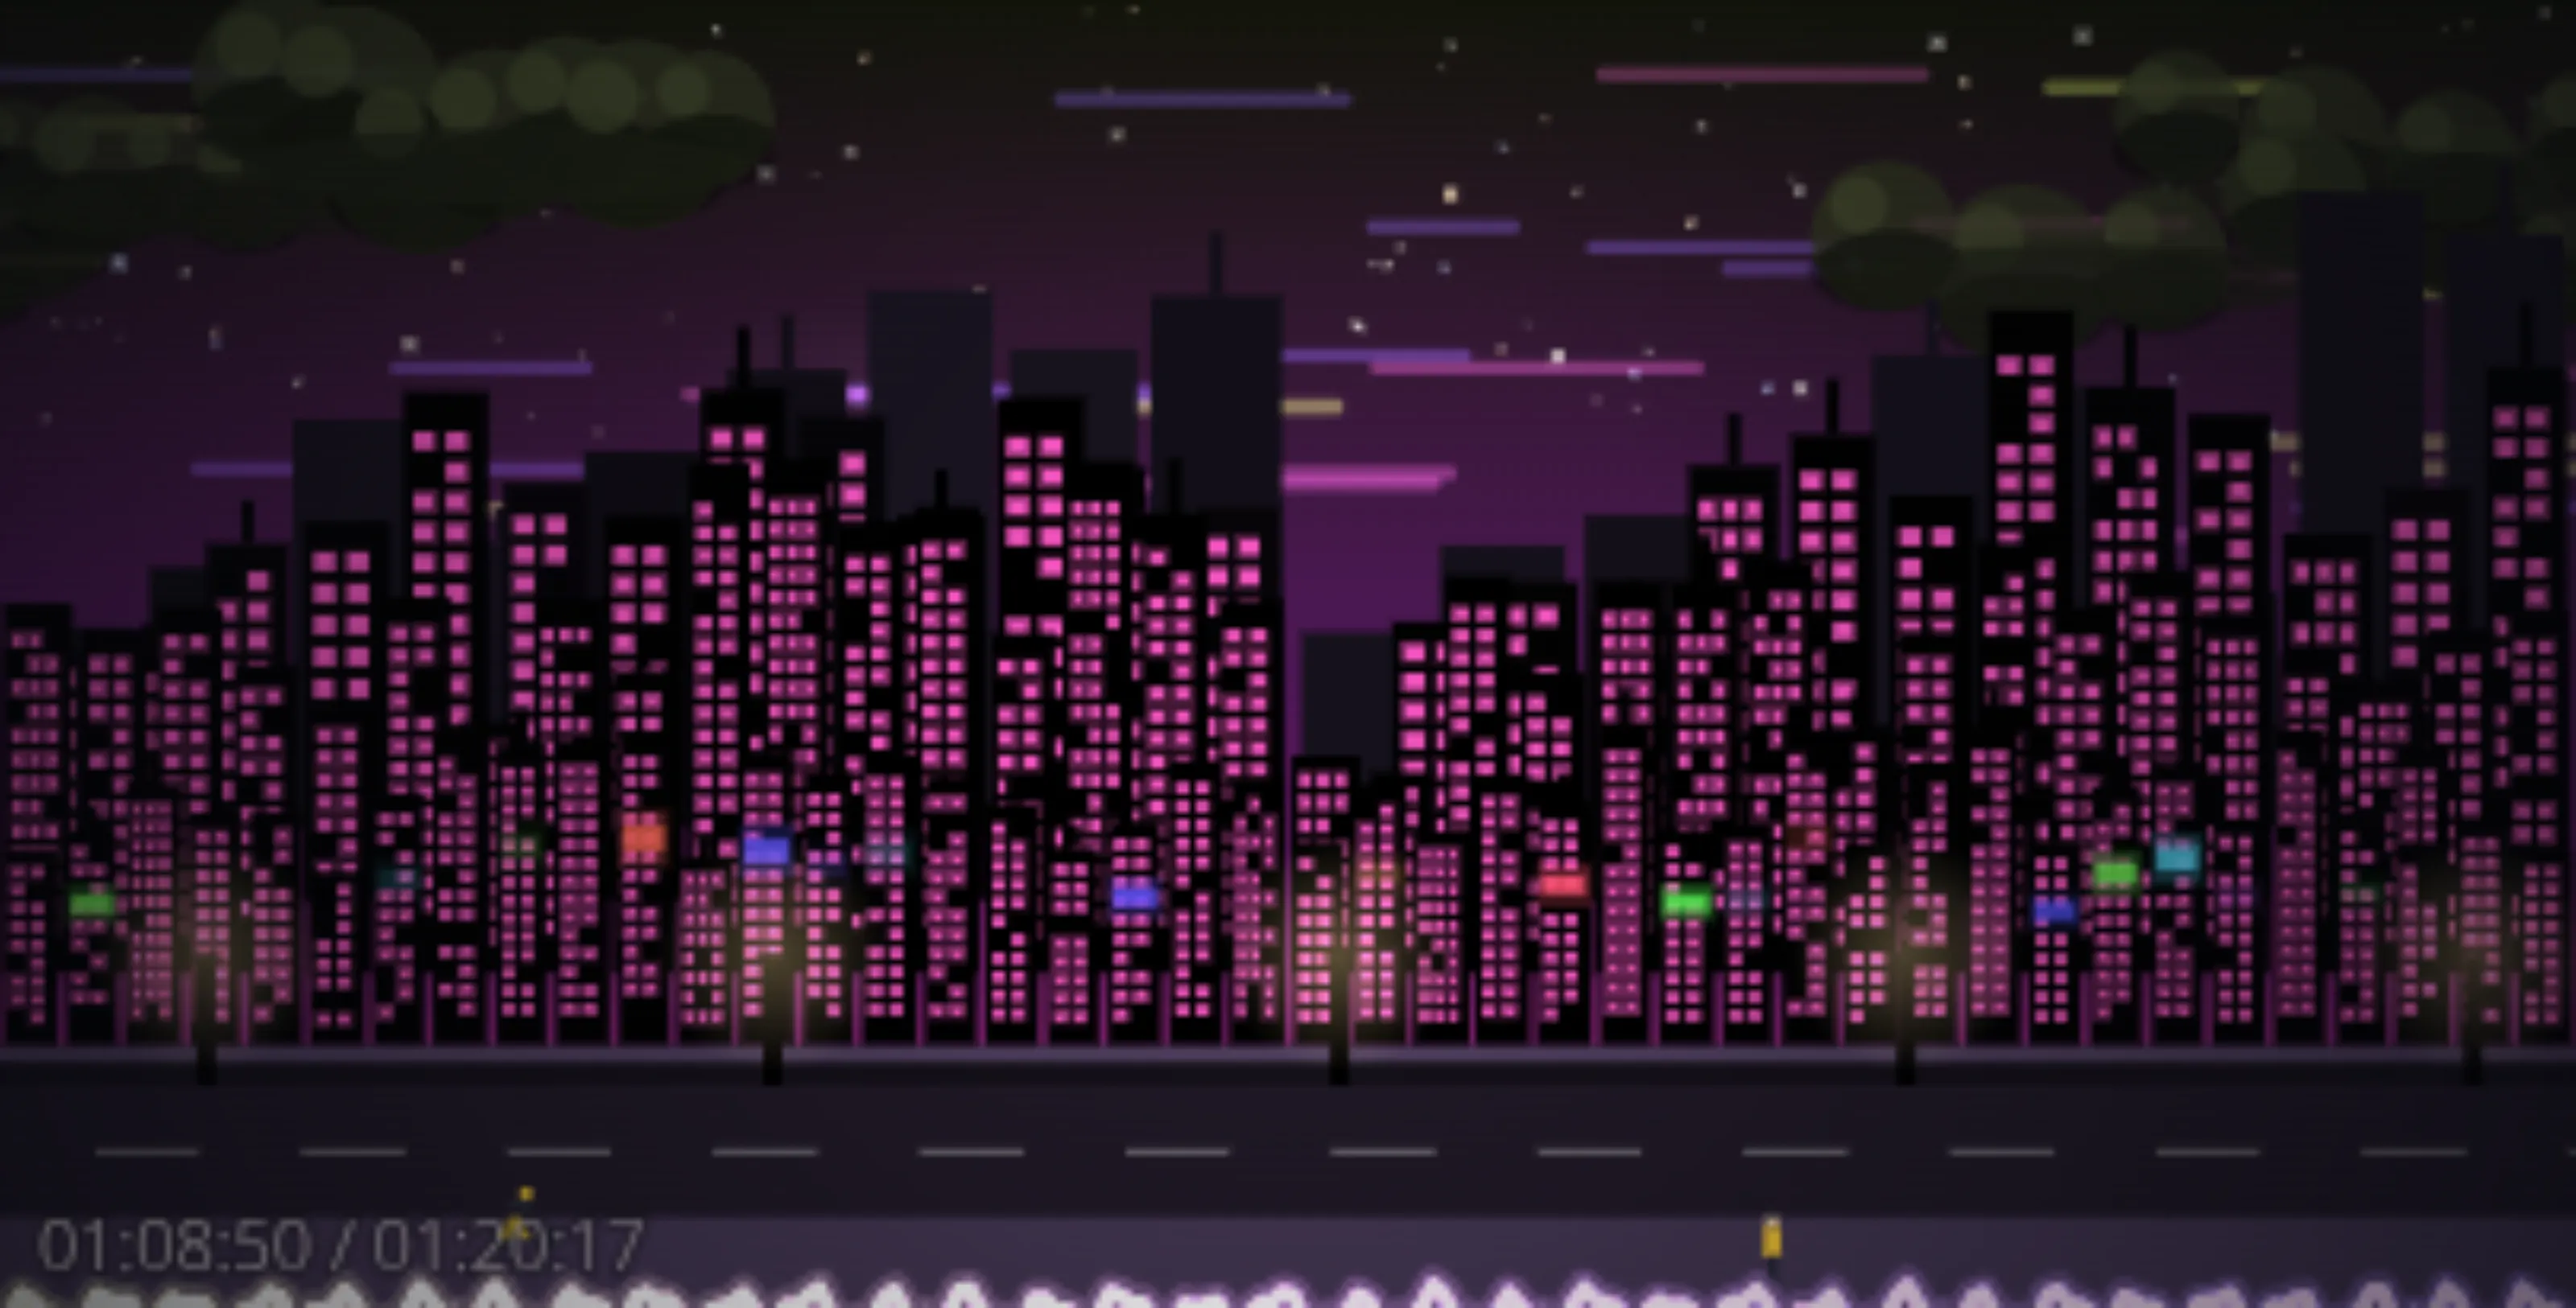
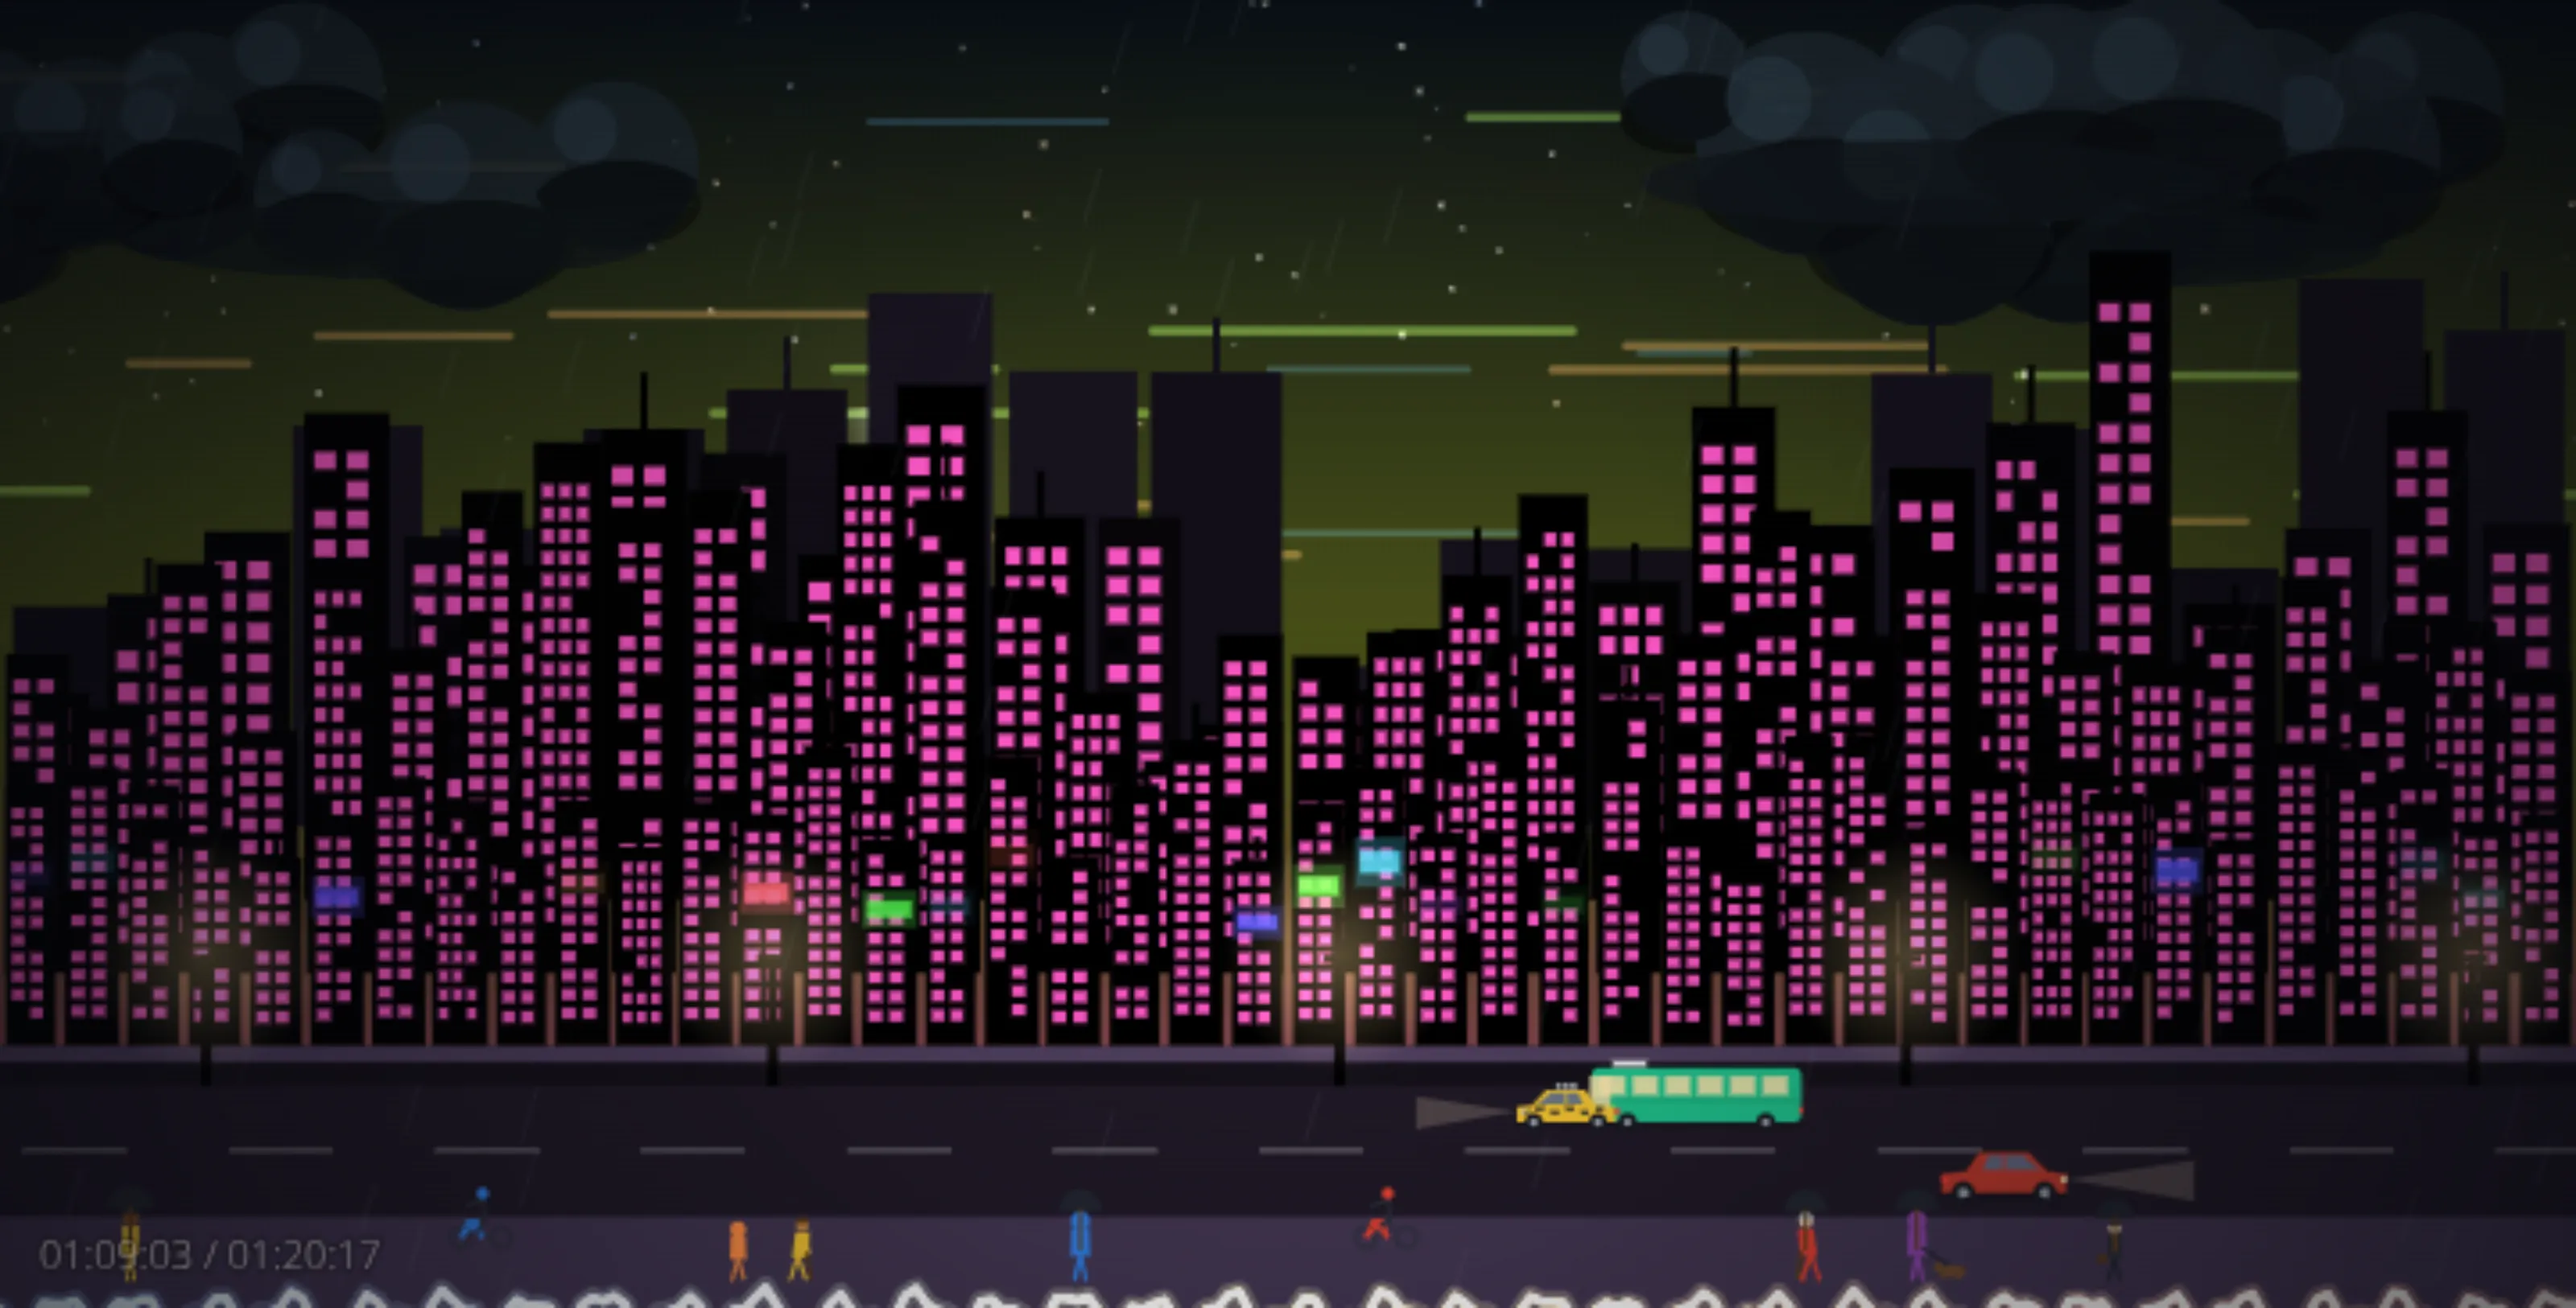
cor-ex-machina-horizon 1.8.0 : capture de la foule en ville

diff --git a/index.html b/index.html
@@ -1256,7 +1256,7 @@
           <span class="pc-name">cor-ex-machina-horizon</span>
           <span class="pc-lang lang-js"><span class="lang-dot"></span> JavaScript</span>
         </div>
-        <div class="pc-desc">Un paysage qui est la musique : chaque plan est la courbe de loudness du morceau à une échelle de temps différente, en vrai parallaxe. Quatre scènes, rivage, vallée, ville et fond des océans, chacune avec ses biomes, soleil et lune, météo, 45 sortes de passages, playlist, contrôles potard. Un seul fichier HTML, 82 tests.</div>
+        <div class="pc-desc">Un paysage qui est la musique : chaque plan est la courbe de loudness du morceau à une échelle de temps différente, en vrai parallaxe. Quatre scènes, rivage, vallée, ville et fond des océans, chacune avec ses biomes, une vraie foule en ville, soleil et lune, météo, 45 sortes de passages, playlist, contrôles potard. Un seul fichier HTML, 86 tests.</div>
       </a>
 
       <a href="https://yrbane.github.io/potard/" class="project-card">
@@ -1354,7 +1354,7 @@
       </a>
       <a class="demo-tile" href="https://yrbane.github.io/cor-ex-machina-horizon/">
         <img src="shots/cor-ex-machina-horizon-city.webp" alt="cor-ex-machina-horizon, scène ville sous les néons" loading="lazy">
-        <span>cor-ex-machina-horizon &mdash; la ville s'allume la nuit, le tram fait des étincelles 🌃</span>
+        <span>cor-ex-machina-horizon &mdash; la ville s'allume la nuit, taxis, passants et parapluies, jamais deux pareils 🌃</span>
       </a>
       <a class="demo-tile" href="https://yrbane.github.io/cor-ex-machina-horizon/">
         <img src="shots/cor-ex-machina-horizon-sea.webp" alt="cor-ex-machina-horizon, scène fond des océans" loading="lazy">
